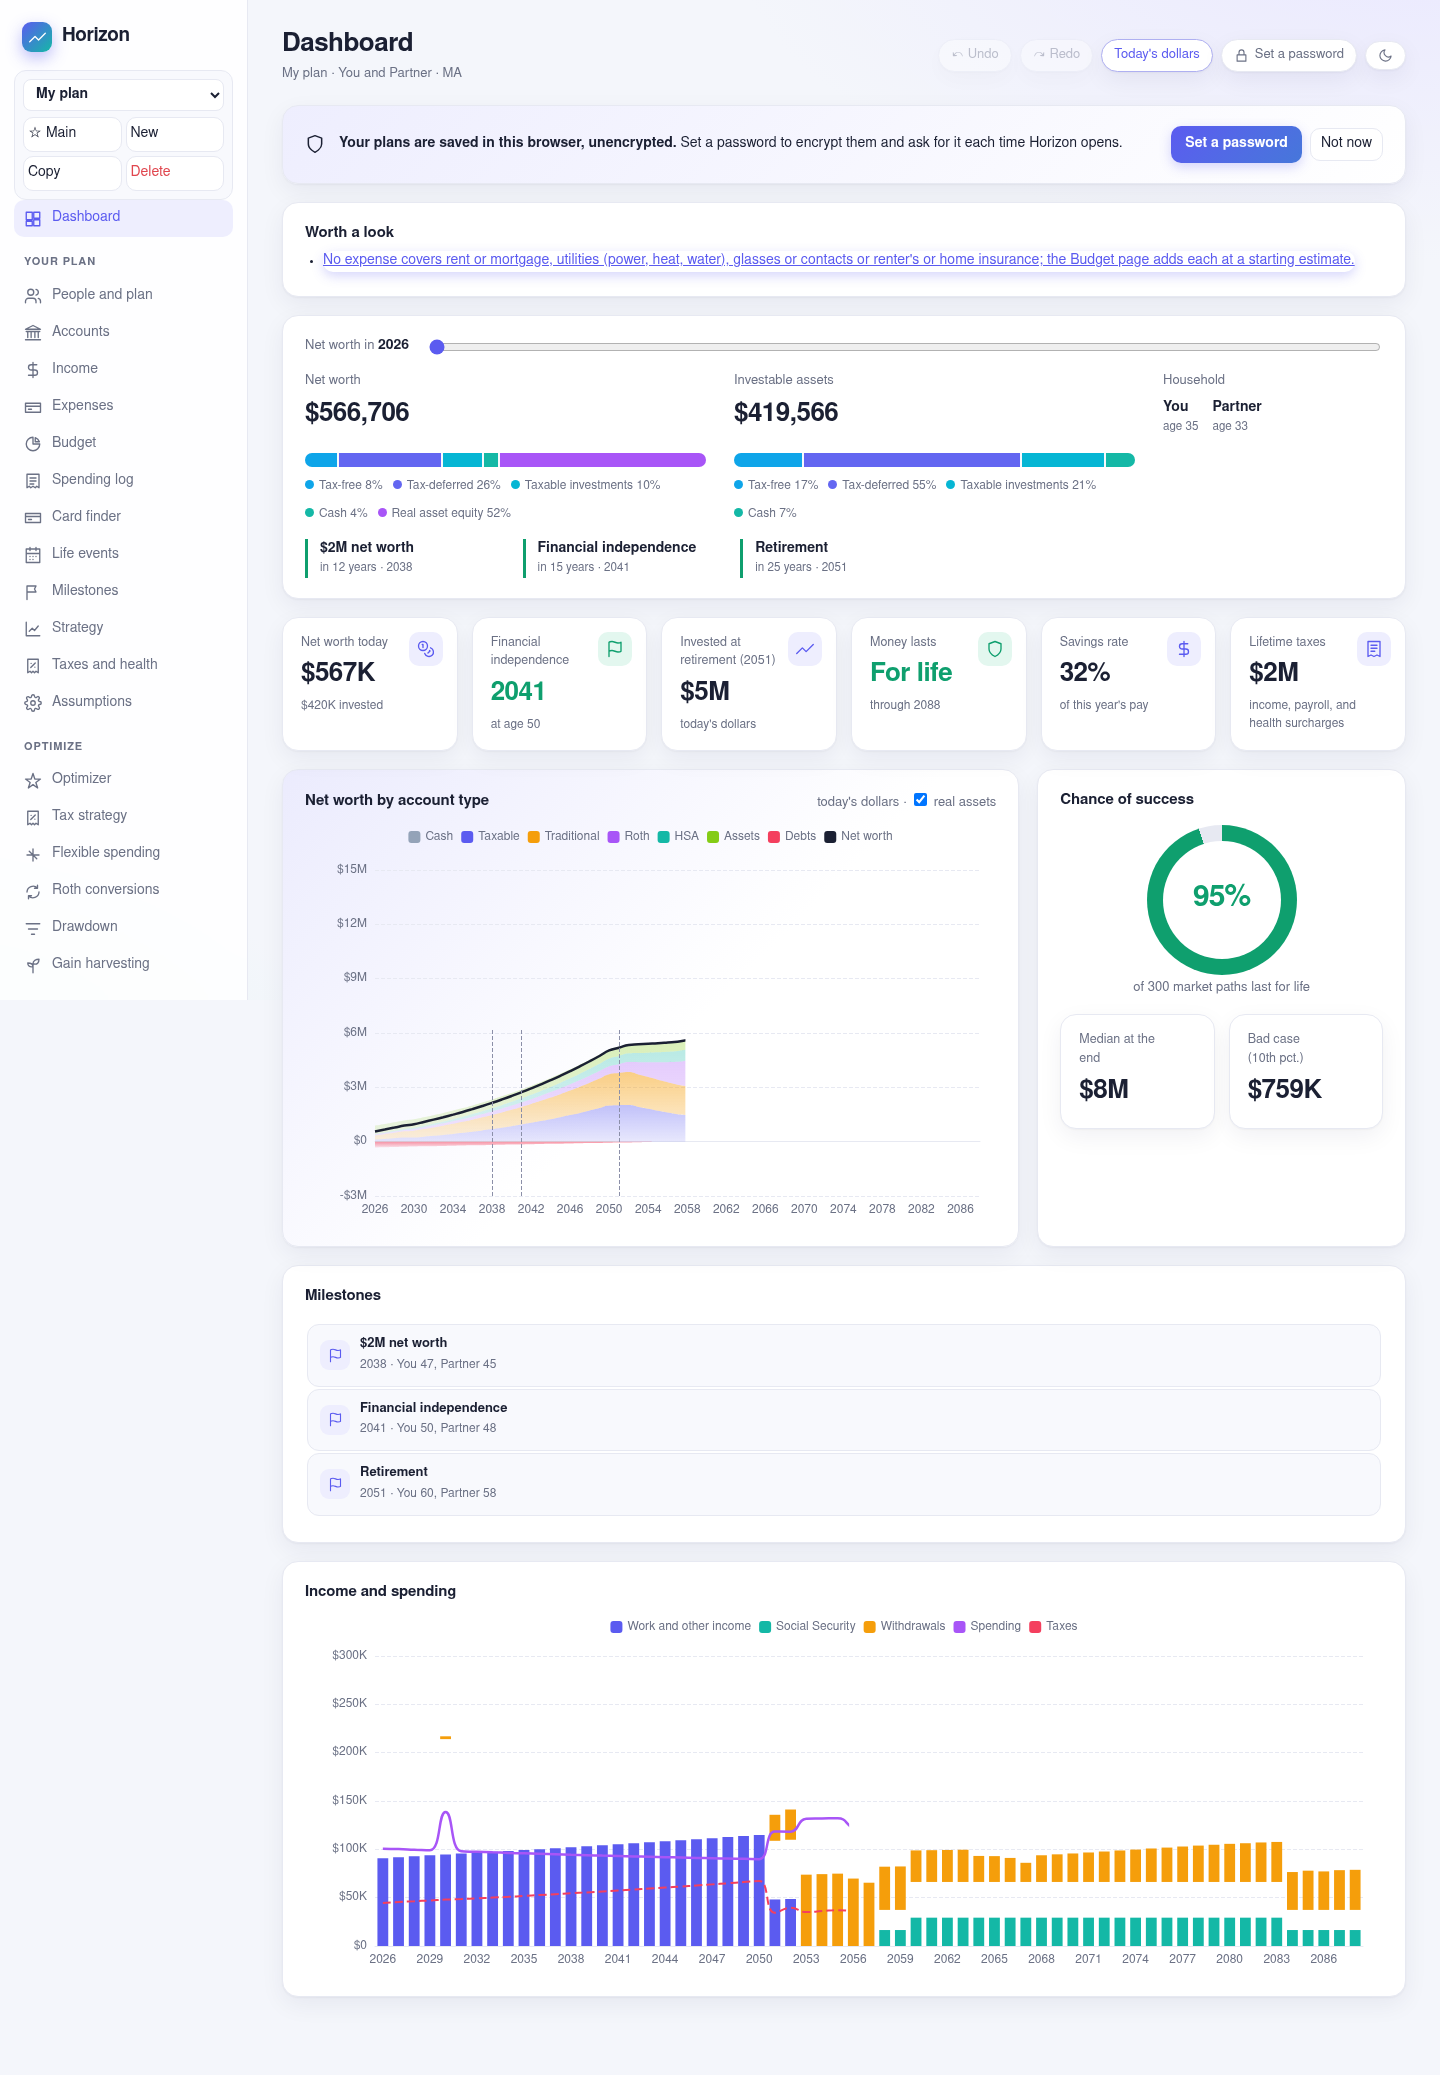
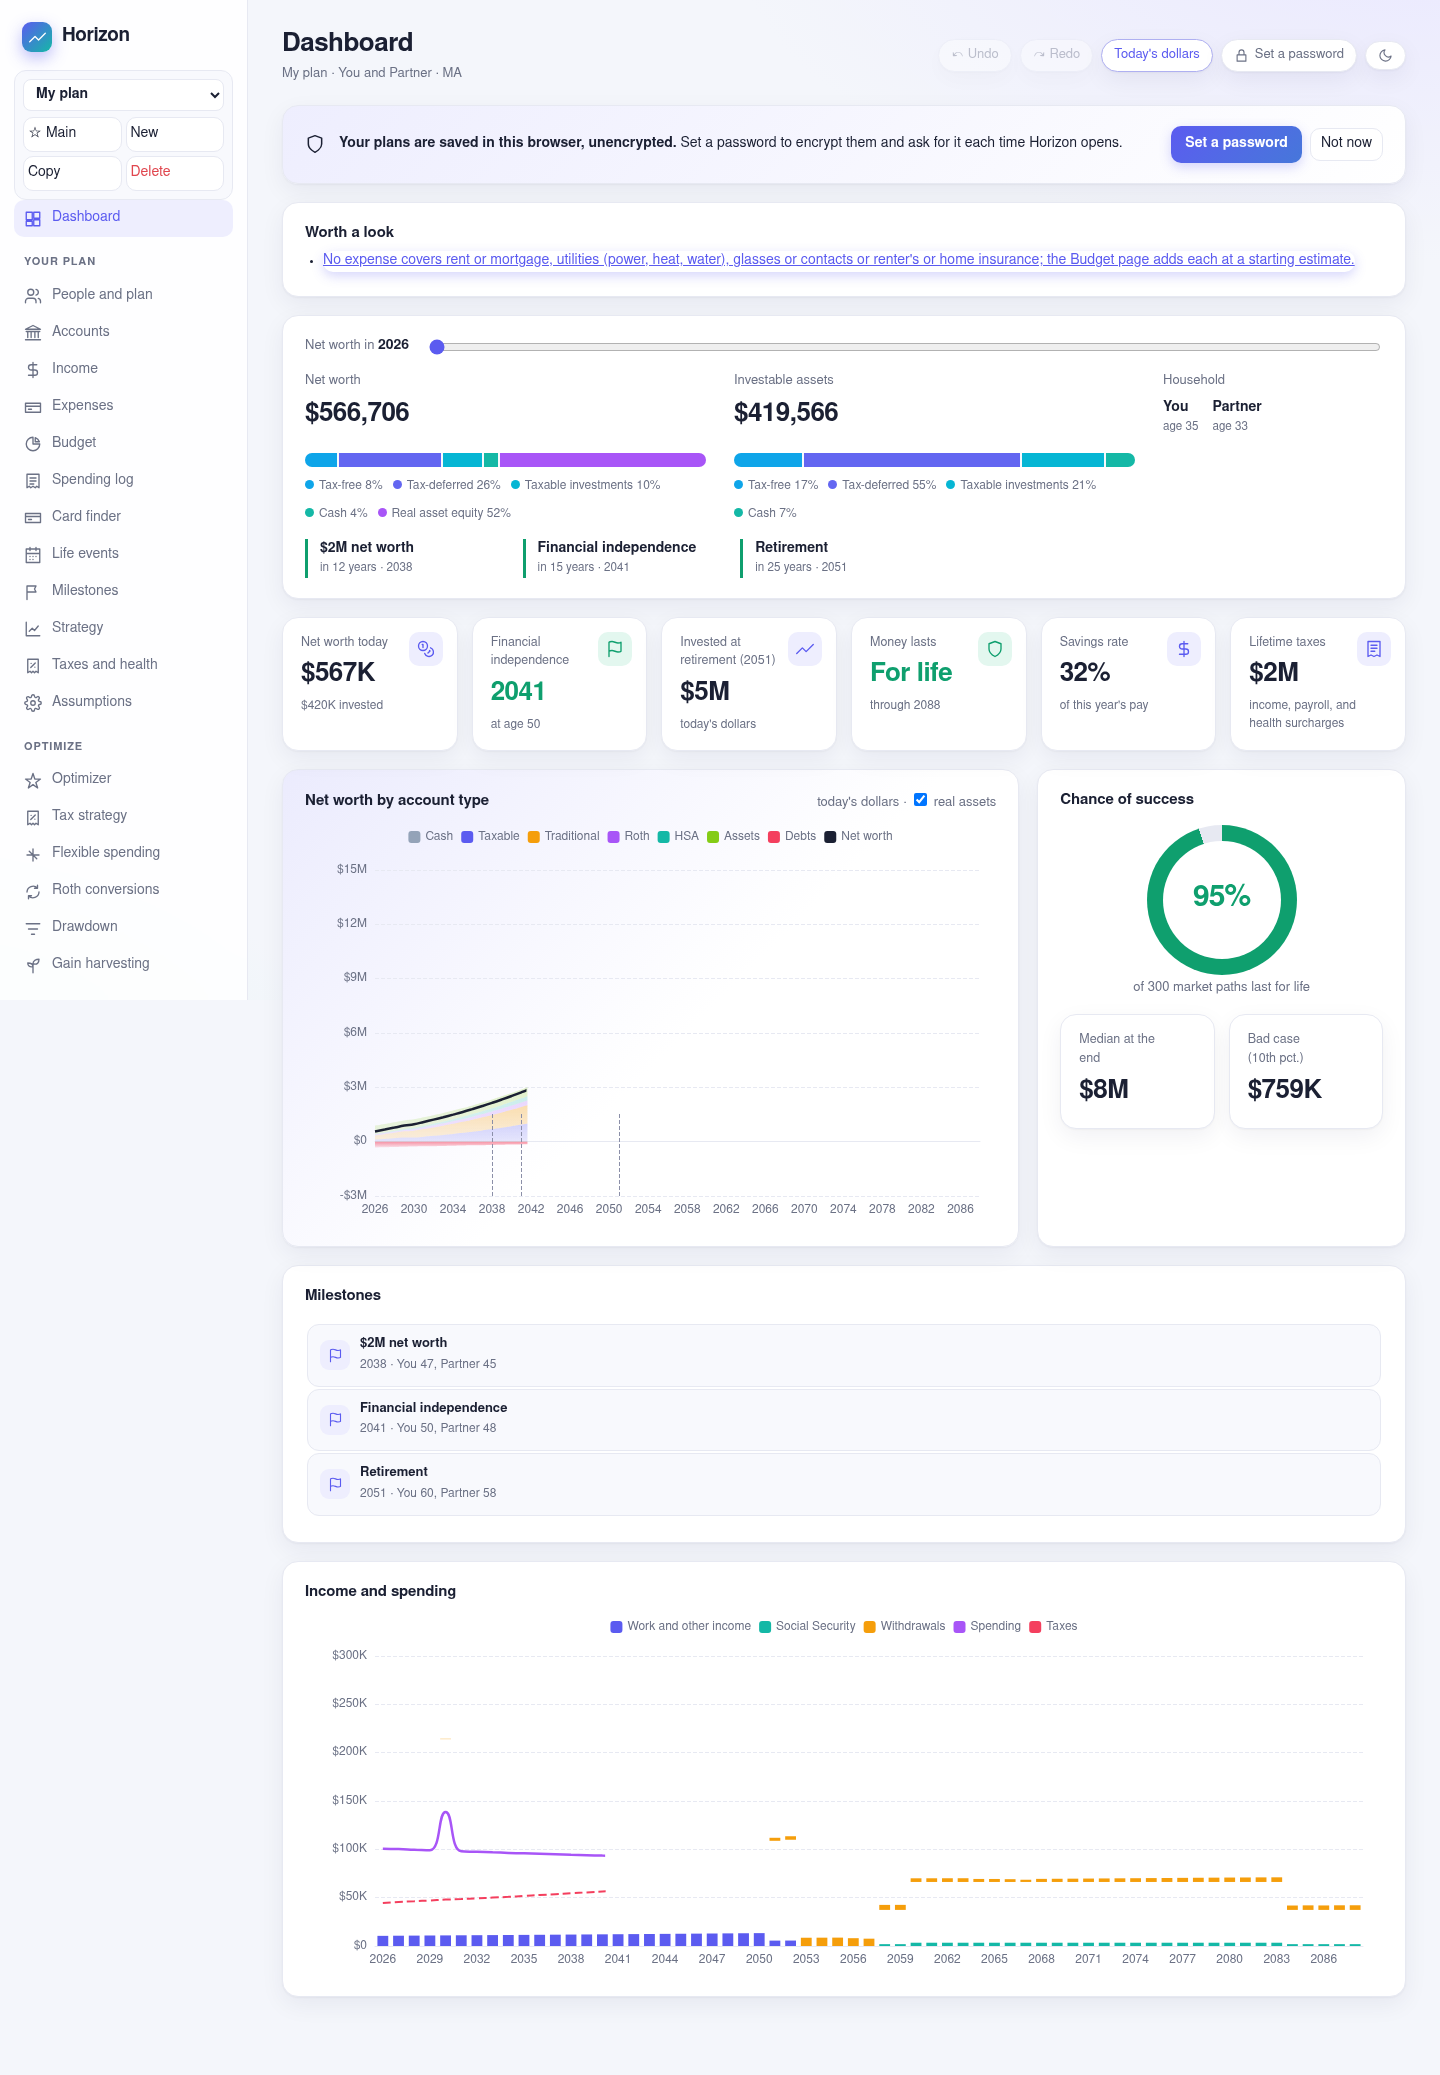
Tax settings: extra flat rates on income and capital gains; withholding on withdrawals, compared with tax owed
Claude-Session: https://claude.ai/code/session_01HeJ1UAxjk6MGEszesTwGbu

Changed region(s): [[0.25, 0.8636, 0.9688, 0.9561], [0.3438, 0.4935, 0.5, 0.5552]]

diff --git a/10_app/code/src/engine/simulate.ts b/10_app/code/src/engine/simulate.ts
@@ -6,6 +6,7 @@
 // raises the tax, which needs more withdrawal) in a few passes. A surplus fills the cash target and the rest goes to
 // the first taxable account. Balances then earn the year's returns, a taxable account's dividends are taxed in the
 // same year, assets appreciate and are sold in their sale year, and debts accrue interest.
+import history from '../data/returns.json';
 import { adoptionCost, birthCost, weddingCost } from './lifeCosts';
 import { assumptionAt } from './assumptions';
 import { resolve, shareOfYear, yearOf } from './dates';
@@ -34,6 +35,14 @@ export function lastYear(plan: Plan): number {
 export function meanPath(plan: Plan): ReturnPath {
   const n = lastYear(plan) - plan.startYear + 1;
   const a = plan.assumptions;
+  // Rates from history (ProjectionLab's Historical rates): the years from the chosen start, in sequence, wrapping at the end
+  if (a.historicalStart) {
+    const hs = history as { year: number; stocks: number; bonds: number; cash: number; inflation: number }[];
+    const k = Math.max(0, hs.findIndex((h) => h.year === a.historicalStart));
+    const at = (j: number) => hs[(k + j) % hs.length];
+    return { stocks: Array.from({ length: n }, (_, j) => at(j).stocks), bonds: Array.from({ length: n }, (_, j) => at(j).bonds),
+      cash: Array.from({ length: n }, (_, j) => at(j).cash), inflation: Array.from({ length: n }, (_, j) => at(j).inflation) };
+  }
   return {
     stocks: Array.from({ length: n }, (_, i) => assumptionAt(a, 'stocks', i)),
     bonds: Array.from({ length: n }, (_, i) => assumptionAt(a, 'bonds', i)),
@@ -825,7 +834,7 @@ function simulateOnce(plan: Plan, path: ReturnPath, rothByYear?: Record<number, 
         earlyWithdrawals: e + xEarly, over65: alive.filter((p) => ages[p.id] >= 65).length, state: residence,
         itemize: dd.itemize, itemizedOther: mortgageInterest + charity, propertyTax,
         children: kids, otherDependents: otherDeps, collegeStudents: students, local: localIn(y),
-        childrenUnder13: kidsUnder13, dependentCare: careCost, isoSpread, country: a.taxCountry, province: a.province, deChurch: a.deChurch, deChildless: a.deChildless, scotland: a.scotland, ukLumpSum: a.ukLumpSum, over60: alive.filter((p) => ages[p.id] >= 60).length,
+        childrenUnder13: kidsUnder13, dependentCare: careCost, isoSpread, country: a.taxCountry, province: a.province, extraIncomeRate: a.extraIncomeRate, extraGainsRate: a.extraGainsRate, deChurch: a.deChurch, deChildless: a.deChildless, scotland: a.scotland, ukLumpSum: a.ukLumpSum, over60: alive.filter((p) => ages[p.id] >= 60).length,
         ...(a.taxCountry === 'ES' ? {
           wealthCash: accounts.filter((x) => x.kind === 'cash' || x.kind === 'taxable' || (x.kind === 'asset' && !x.realEstate)).reduce((s2, x) => s2 + Math.max(0, state.balance[x.id]), 0),
           wealthOther: accounts.filter((x) => x.kind === 'asset' && x.realEstate).reduce((s2, x) => s2 + Math.max(0, state.balance[x.id]), 0) + accounts.filter((x) => x.kind === 'debt').reduce((s2, x) => s2 + Math.min(0, state.balance[x.id]), 0),
@@ -1175,6 +1184,7 @@ function simulateOnce(plan: Plan, path: ReturnPath, rothByYear?: Record<number, 
         taxableIncome: tax.taxableIncome,
         ordinaryTaxable: tax.ordinaryTaxable,
         marginalRate: tax.marginalRate,
+        withheld: (() => { let w = 0; for (const x of accounts) { const d = withdrawals[x.id] ?? 0; if (x.kind === 'traditional') w += d * (a.withholdTraditional ?? 0); else if (x.kind === 'taxable') w += d * (a.withholdTaxable ?? 0); } return w || undefined; })(),
         effectiveRate: ((b) => (b > 0 ? tax.total / b : 0))(a.metrics?.taxRateBase === 'agi' ? tax.agi : a.metrics?.taxRateBase === 'taxable' ? tax.taxableIncome : gross),
       },
       investmentReturn,

diff --git a/10_app/code/src/pages/Editors.tsx b/10_app/code/src/pages/Editors.tsx
@@ -1047,6 +1047,10 @@ export function AssumptionsPage() {
     <CurrencyCard />
     <Card title="Tax country">
       <div className="grid">
+        <Num label="Extra tax on income" percent value={a.extraIncomeRate ?? 0} onChange={(v) => update((p) => { p.assumptions.extraIncomeRate = v || undefined; })} />
+        <Num label="Extra tax on capital gains" percent value={a.extraGainsRate ?? 0} onChange={(v) => update((p) => { p.assumptions.extraGainsRate = v || undefined; })} />
+        <Num label="Withheld from tax-deferred withdrawals" percent value={a.withholdTraditional ?? 0} onChange={(v) => update((p) => { p.assumptions.withholdTraditional = v || undefined; })} />
+        <Num label="Withheld from taxable withdrawals" percent value={a.withholdTaxable ?? 0} onChange={(v) => update((p) => { p.assumptions.withholdTaxable = v || undefined; })} />
         <Select label="Taxes follow" value={a.taxCountry ?? 'US'} options={[['US', 'United States (federal and state)'], ['UK', 'United Kingdom (England, Wales, Northern Ireland)'], ['AU', 'Australia (residents)'], ['CA', 'Canada'], ['DE', 'Germany'], ['NL', 'Netherlands'], ['ES', 'Spain']]} onChange={(v) => update((p) => { p.assumptions.taxCountry = v === 'US' ? undefined : v; })} />
         {a.taxCountry === 'DE' && <Select label="Church tax" value={String(a.deChurch ?? 0)} options={[['0', 'Not a member'], ['0.08', '8% (Bavaria, Baden-Wuerttemberg)'], ['0.09', '9% (other states)']]} onChange={(v) => update((p) => { p.assumptions.deChurch = Number(v) || undefined; })} />}
         {a.taxCountry === 'DE' && <Check label="No children (care insurance surcharge)" value={!!a.deChildless} onChange={(v) => update((p) => { p.assumptions.deChildless = v || undefined; })} />}
@@ -1064,6 +1068,12 @@ export function AssumptionsPage() {
           <Check label="Count taxes as spending" value={!!a.metrics?.spendingWithTaxes} onChange={(v) => update((p) => { p.assumptions.metrics = { ...p.assumptions.metrics, spendingWithTaxes: v || undefined }; })} />
         </div>
       </Card>
+    <Card title="Rates">
+      <div className="grid">
+        <Select label="Rates follow" value={a.historicalStart ? 'history' : 'fixed'} options={[['fixed', 'The assumptions below (fixed)'], ['history', 'History from a start year']]} onChange={(v) => update((p) => { p.assumptions.historicalStart = v === 'history' ? 1966 : undefined; })} />
+        {!!a.historicalStart && <Num label="History from the year" value={a.historicalStart} onChange={(v) => update((p) => { p.assumptions.historicalStart = Math.max(1928, Math.min(2025, Math.round(v))); })} />}
+      </div>
+    </Card>
     <Card title="By horizon">
         {(() => {
           const born = plan.people[0]?.birthYear ?? plan.startYear;

diff --git a/10_app/code/src/engine/tax.ts b/10_app/code/src/engine/tax.ts
@@ -29,6 +29,9 @@ export const rules = rulesFor(YEARS[0]).rules;
 export interface TaxInput {
   /** The country whose taxes apply: the United States where unset, or the UK (engine/uk.ts). */
   country?: 'US' | 'UK' | 'AU' | 'CA' | 'DE' | 'NL' | 'ES';
+  /** Extra flat rates on ordinary income and on capital gains and qualified dividends (other taxes the model leaves out). */
+  extraIncomeRate?: number;
+  extraGainsRate?: number;
   /** The Netherlands' box 3: bank balances and other taxable investments at the start of the year. */
   wealthCash?: number;
   wealthOther?: number;
@@ -246,7 +249,16 @@ export function stateTax(state: string, agi: number, ssTaxable: number, status: 
   return bracketTax(Math.max(0, base - deduction), scale(brackets, index));
 }
 
+/** Taxes with the plan's extra flat rates on ordinary income and on capital gains added (ProjectionLab's tax settings). */
 export function computeTax(t: TaxInput): TaxResult {
+  const r = computeTaxBase(t);
+  if (!t.extraIncomeRate && !t.extraGainsRate) return r;
+  const ordinary = t.wages + t.selfEmployment + t.otherOrdinary + t.interest + t.socialSecurity - t.preTaxDeductions;
+  const extra = Math.max(0, ordinary) * (t.extraIncomeRate ?? 0) + Math.max(0, t.qualifiedDividends + t.longTermGains) * (t.extraGainsRate ?? 0);
+  return { ...r, local: r.local + extra, total: r.total + extra, marginalRate: r.marginalRate + (t.extraIncomeRate ?? 0) };
+}
+
+function computeTaxBase(t: TaxInput): TaxResult {
   if (t.country === 'UK') return ukTax(t);
   if (t.country === 'AU') return auTax(t);
   if (t.country === 'CA') return caTax(t);

diff --git a/10_app/code/src/help.ts b/10_app/code/src/help.ts
@@ -328,4 +328,10 @@ export const HELP: Record<string, string> = {
   "Shield from year (0 for the start)": "The first year withdrawal shielding caps traditional withdrawals.",
   "Shield until year (0 for the end)": "The last year withdrawal shielding applies.",
   "Convert from": "The traditional account conversions draw from, or every one in turn.",
+  "Extra tax on income": "A flat rate added on ordinary income for taxes the model leaves out, such as a local or a foreign tax.",
+  "Extra tax on capital gains": "A flat rate added on capital gains and qualified dividends.",
+  "Withheld from tax-deferred withdrawals": "The share of each traditional account withdrawal the custodian withholds for tax; the Taxes page compares it with the tax owed.",
+  "Withheld from taxable withdrawals": "The share of each taxable account sale withheld for tax.",
+  "Rates follow": "Fixed uses the return and inflation assumptions on this page; history replays each year's actual stock, bond, and cash returns and inflation from a start year, in order.",
+  "History from the year": "The first historical year the plan replays: 1966, for instance, starts with the high inflation of the 1970s; 1929 with the Depression.",
 };

diff --git a/10_app/code/src/engine/types.ts b/10_app/code/src/engine/types.ts
@@ -459,6 +459,13 @@ export interface Assumptions {
   taxCountry?: 'US' | 'UK' | 'AU' | 'CA' | 'DE' | 'NL' | 'ES';
   /** UK: a Scottish taxpayer, and a quarter of each pension withdrawal taken tax-free (engine/uk.ts). */
   scotland?: boolean;
+  /** Rates from history: the projection uses each year's actual returns and inflation from this year on (1928 to 2025). */
+  historicalStart?: number;
+  /** Extra flat tax rates on income and on capital gains, and the shares withheld from traditional and taxable withdrawals. */
+  extraIncomeRate?: number;
+  extraGainsRate?: number;
+  withholdTraditional?: number;
+  withholdTaxable?: number;
   /** Germany: church tax rate for members (0.08 in Bavaria and Baden-Wuerttemberg, 0.09 elsewhere), and no children. */
   deChurch?: number;
   deChildless?: boolean;
@@ -594,6 +601,8 @@ export interface YearResult {
     taxableIncome: number;
     ordinaryTaxable?: number;
     marginalRate: number;
+    /** Withheld from withdrawals this year (tax settings); the difference from the year's tax is a refund or a balance due. */
+    withheld?: number;
     effectiveRate: number;
   };
   investmentReturn: number;

diff --git a/10_app/code/src/pages/Analysis.tsx b/10_app/code/src/pages/Analysis.tsx
@@ -211,6 +211,15 @@ export function TaxesPage() {
         }} />
       </Card>
       <TaxYear />
+      {proj.years.some((y) => y.taxes.withheld) && <Card title="Tax withheld and tax owed" wide>
+        <Chart height={260} option={{
+          tooltip: moneyTooltip, legend: {}, grid: { left: 70, right: 16, top: 40, bottom: 30 }, xAxis: { type: 'category', data: proj.years.map((y) => String(y.year)) }, yAxis: moneyAxis,
+          series: [
+            { name: 'Withheld', type: 'bar', data: proj.years.map((y, i) => Math.round(adj(y.taxes.withheld ?? 0, i))) },
+            { name: 'Refund (+) or balance due (-)', type: 'line', data: proj.years.map((y, i) => Math.round(adj((y.taxes.withheld ?? 0) - y.taxes.total, i))) },
+          ],
+        }} />
+      </Card>}
       <Card title="Tax rates" wide>
         <Chart height={300} option={{
           tooltip: { trigger: 'axis', valueFormatter: (v: number) => pct(v) }, legend: { top: 0 }, grid: { left: 60, right: 20, top: 40, bottom: 30 },

diff --git a/10_app/code/src/engine/__tests__/recur.test.ts b/10_app/code/src/engine/__tests__/recur.test.ts
@@ -85,3 +85,23 @@ describe('household changes', () => {
     expect((rent(y0 + 2) / rent(y0 + 1)) / (rent(y0 + 1) / rent(y0))).toBeCloseTo(Math.SQRT2, 1);
   });
 });
+
+describe('extra tax rates and withholding', () => {
+  it('adds the extra rate to taxes and records withholding', () => {
+    const plan = examplePlan();
+    const base = simulate(plan).years[0].taxes.total;
+    plan.assumptions.extraIncomeRate = 0.03;
+    const r = simulate(plan).years[0];
+    expect(r.taxes.total).toBeGreaterThan(base);
+  });
+});
+
+describe('historical rates', () => {
+  it('replays the chosen start year', async () => {
+    const { meanPath } = await import('../simulate');
+    const plan = examplePlan();
+    plan.assumptions.historicalStart = 2008;
+    const p = meanPath(plan);
+    expect(p.stocks[0]).toBeLessThan(-0.3);
+  });
+});

diff --git a/todo.md b/todo.md
@@ -57,6 +57,5 @@ Asked by Bryce on 2026-11-23, in the order to build.
 - Estate: heirs' tax rate on tax-deferred accounts, capital gains rate, stepped-up basis, liquidation cost, administrative cost, the final tax return, estate drag, and a breakdown by account.
 - Tax analytics: by income item, gross, tax, net, and effective rate; notable events (penalized distributions, RMDs, Roth conversions, tax-deferred distributions).
 - Rates: a historical sequence (a chosen start year) as the plan's own projection.
-- Tax settings: withholding rates on tax-deferred and taxable withdrawals; extra flat rates on income and capital gains.
 - Metrics: effective rate including return of capital, non-taxable sale proceeds, tax-free withdrawals, local income tax, and property tax; spending including mortgage payments, mortgage principal, consumer debt principal.
 
